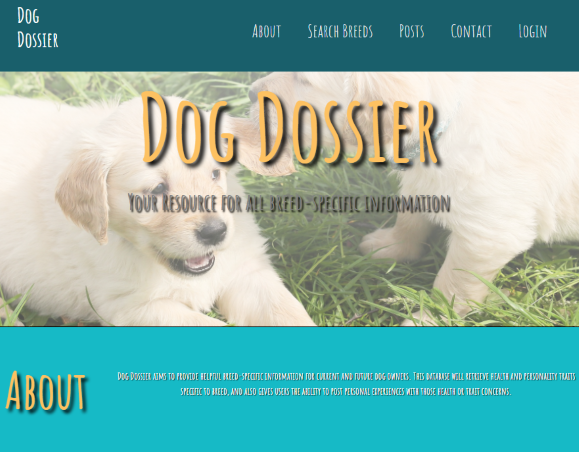
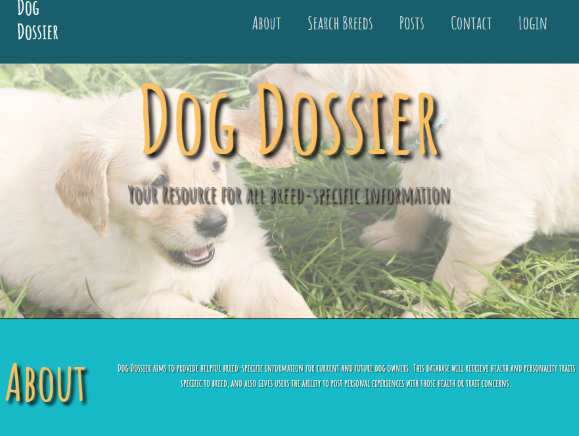
complete about section structure and style

diff --git a/src/index.css b/src/index.css
@@ -105,25 +105,28 @@ a {
   font-weight: bold;
 }
 /* Hero Style Start */
+.hero {
+  display:flex;
+  align-items:center;
+  justify-content:stretch;
+}
 .hero-art {
-  width: 20%;
+  width: 25%;
   margin: 3.5%;
-  color: #fff;
   font-size: 18px;
   line-height: 1.2;
   flex-direction: row;
-  flex-wrap: wrap;
-  justify-content: center;
+  align-self: stretch;
 }
 .hero-art h2 {
   font-style: italic;
   font-size: 80px;
-  color: var(--primary-color);
+  color: #36b3c9;
 }
 .hero-art h2:hover {
   color: var(--accent-color);
   font-weight: bolder;
-  transform: translateX(10px) scale(1.2);
+  transform: translateY(10px) scale(1.2);
   transition-timing-function: ease-in-out;
 }
 .hero-art p {
@@ -134,11 +137,11 @@ a {
 .hero-art p:hover {
   color: var(--accent-color);
   font-weight: bolder;
-  transform: translateX(10px) scale(1.2);
+  transform: translateY(10px) scale(1.2);
   transition-timing-function: ease-in;
 }
 .hero-code {
-  width: 20%;
+  width: 25%;
   text-align: left;
   margin: 3.5%;
   color: #fff;
@@ -147,11 +150,12 @@ a {
   flex-direction: row;
   flex-wrap: wrap;
   justify-content: left;
+  align-items: center;
 }
 .hero-code h2 {
   font-style: italic;
   font-size: 90px;
-  color: var(--primary-color);
+  color: #36b3c9;
 }
 .hero-code h2:hover {
   color: var(--accent-color);
@@ -174,6 +178,9 @@ a {
 .hero-img {
   flex-direction: row;
   flex-wrap: wrap;
+}
+.hero-about {
+  width: 70%
 }
 /* Hero Style End */
 /* Apply styles to header */
@@ -209,6 +216,18 @@ header nav ul {
 }
 header nav ul li, header nav a {
   padding: 10px 15px;
+}
+header nav ul li:hover {
+  color: var(--accent-color);
+  font-weight: bolder;
+  transform: translateX(10px) scale(1.2);
+  transition-timing-function: ease-in-out;
+}
+header nav a:hover {
+  color: var(--accent-color);
+  font-weight: bolder;
+  transform: translateX(10px) scale(1.2);
+  transition-timing-function: ease-in-out;
 }
 /* End header styles */
 button {

diff --git a/src/components/About/index.js b/src/components/About/index.js
@@ -1,21 +1,22 @@
 import React from 'react';
 import coverImage from "../../assets/images/cover-img.jpg";
+import logoImage from "../../assets/images/clr-logo.svg";
 
 function About() {
     return (
-        <section className="my-5 flex-row">
+        <section className="my-5 flex-row hero">
+            <div className="hero-img" style={{ width: "30%" }}>
+                <img src={coverImage} className="my-2" style={{ width: "100%" }} alt="cover" />
+            </div>
             <div className="hero-art">
                 <p>splash of</p>
-                <h2>artist</h2>
+                <h2><span>&#60;artist&#62;</span></h2>
             </div>
             <div className="hero-code">
                 <p>hint of</p>
-                <h2>⪡coder⪢</h2>
+                <h2><span>&#60;coder/&#62;</span></h2>
             </div>
-            <div className="hero-img">
-                <img src={coverImage} className="my-2" style={{ width: "40%" }} alt="cover" />
-            </div>
-            <div>
+            <div className="hero-about">
                 <h1 id="about">About Amber</h1>
                 <p>
                 I am a published author and full-stack web developer. I work as a freelance web developer and
@@ -25,6 +26,9 @@ function About() {
                 As an artist, I specialize in graphite drawings and acrylic paintings. My creative eye has given me a
                 unique ability to design potent professional websites.
                 </p>
+            </div>
+            <div className="hero-img" style={{ width: "30%" }}>
+                <img src={logoImage} className="my-2" style={{ width: "100%" }} alt="cover" />
             </div>
         </section>
     );

diff --git a/src/components/PhotoList/index.js b/src/components/PhotoList/index.js
@@ -26,19 +26,19 @@ const PhotoList = ({ category }) => {
     },
     {
         name: 'Front-End',
-        category: 'technologies',
+        category: 'resume',
         description:
           'HTML/CSS/JS, Bootstrap, Normalize, Bulma, client-side API integration, React, Websockets'
     },
     {
         name: 'Back-End',
-        category: 'technologies',
+        category: 'resume',
         description:
           'Node.js, Express.js, SQL, Sequelize, bcrypt, server-side API, database creation & management'
     },
     {
         name: 'MERN Stack',
-        category: 'technologies',
+        category: 'resume',
         description:
           'MongoDB/Mongoose, GraphQl, Postgres, React, Node.js, JSX, JWT'
     }
@@ -59,7 +59,7 @@ const PhotoList = ({ category }) => {
       <div className="flex-row">
         {currentPhotos.map((image, i) => (
           <img
-            src={require(`../../assets/images/gallery/${category}/${i}.png`).default}
+            src={require(`../../assets/images/gallery/${category}/${i}.jpg`).default}
             alt={image.name}
             className="img-thumbnail mx-1"
             onClick={() => toggleModal(image, i)}

diff --git a/src/components/Modal/index.js b/src/components/Modal/index.js
@@ -8,7 +8,7 @@ const Modal = ({ onClose, currentPhoto }) => {
       <div className="modalContainer">
         <h3 className="modalTitle">{name} </h3>
         <img
-          src={require(`../../assets/images/gallery/${category}/${index}.png`).default}
+          src={require(`../../assets/images/gallery/${category}/${index}.jpg`).default}
           alt="current category"
         />
         <p>{description}</p>
